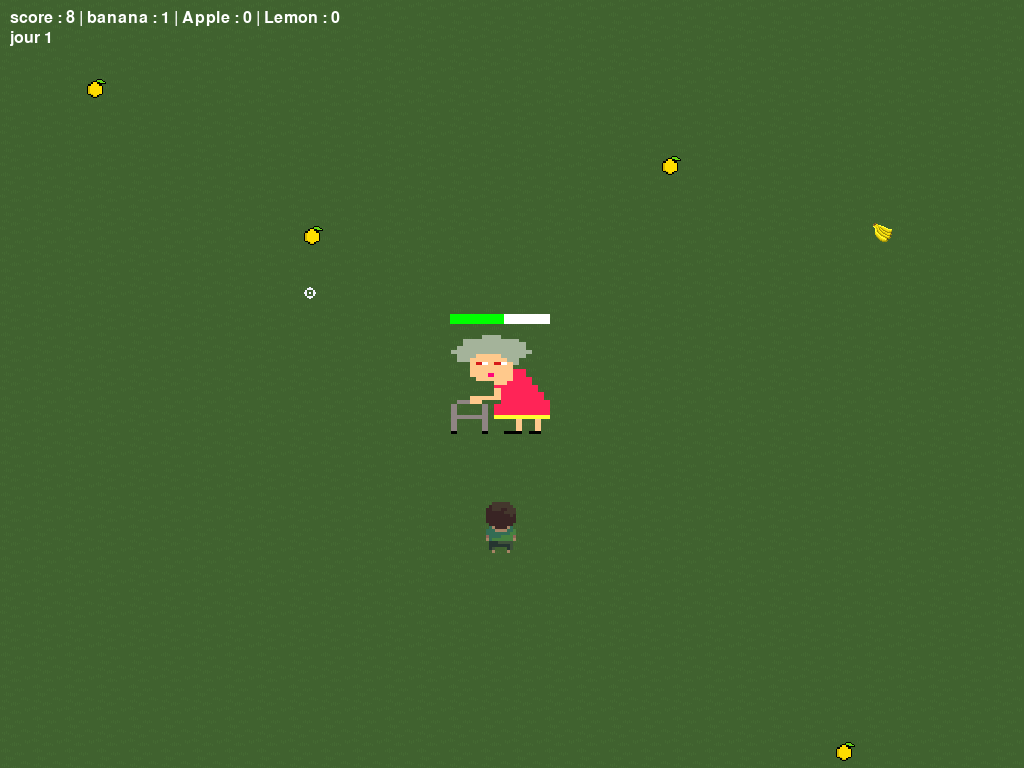
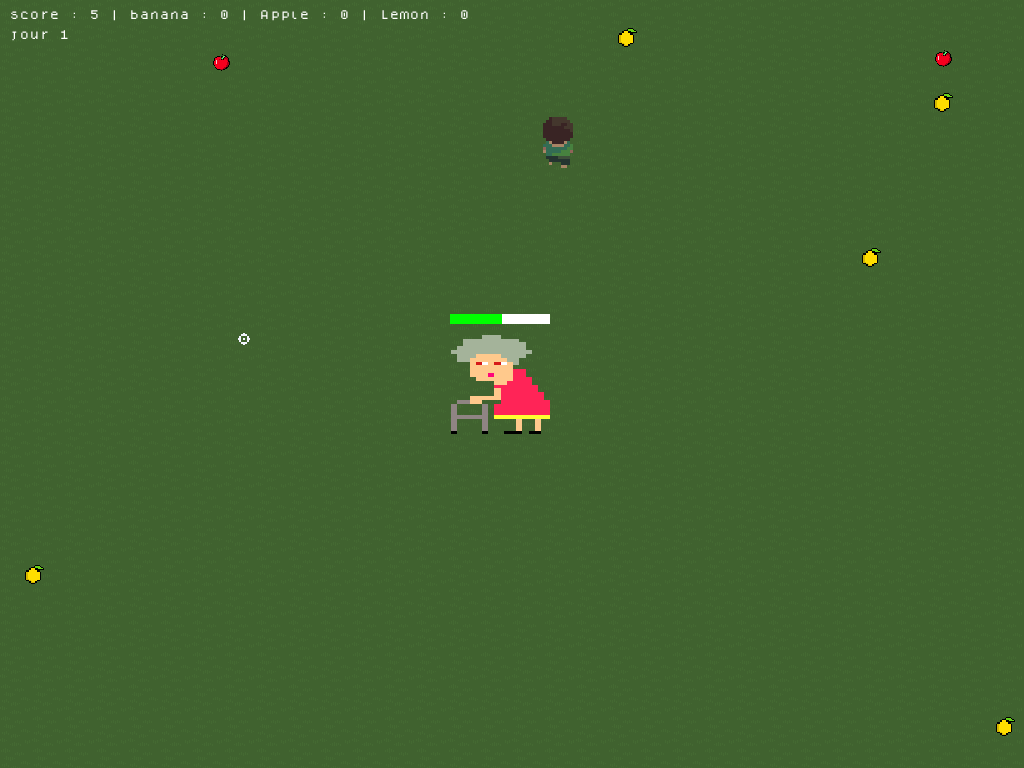
Ajout de polices de caractères

diff --git a/gamejam_project/gamejam_project/main.py b/gamejam_project/gamejam_project/main.py
@@ -79,11 +79,11 @@ if __name__ == '__main__':
         while waitUserResponse:
             WIN.fill((0, 0, 0))
             if int(timer) % 2 == 1:
-                font = pygame.font.Font(None, 25)
+                font = pygame.font.Font('fonts/dogica.ttf', 10)
                 text_play_again = font.render("Press ENTER to play", 1, (255, 255, 255))
                 text_quit = font.render("Press DEL to exit", 1, (255, 255, 255))
-                WIN.blit(text_play_again, (450, 350))
-                WIN.blit(text_quit, (465, 380))
+                WIN.blit(text_play_again, (420, 350))
+                WIN.blit(text_quit, (430, 380))
             timer += 0.005
             pygame.display.update()
             keys = pygame.key.get_pressed()
@@ -115,7 +115,7 @@ if __name__ == '__main__':
                         compteur_cycle = compteur_cycle + 1
                         animCycleAnouncement('img/day.png')
 
-                    font = pygame.font.Font(None, 24)
+                    font = pygame.font.Font('fonts/dogica.ttf', 10)
                     text = font.render("nuit " + str(compteur_cycle), 1, (255, 255, 255))
                     WIN.blit(text, (10, 30))
 
@@ -131,7 +131,7 @@ if __name__ == '__main__':
                         cycle.cycleChange()
                         animCycleAnouncement('img/night.png')
 
-                    font = pygame.font.Font(None, 24)
+                    font = pygame.font.Font('fonts/dogica.ttf', 10)
                     text = font.render("jour " + str(compteur_cycle), 1, (255, 255, 255))
                     WIN.blit(text, (10, 30))
 
@@ -217,7 +217,7 @@ if __name__ == '__main__':
                     nbLemon = 0
 
                 # Printing score and inventory
-                font = pygame.font.Font(None, 24)
+                font = pygame.font.Font('fonts/dogica.ttf', 10)
                 text = font.render(
                     "score : " + str(score) + " | banana : " + str(nbBanana) + " | Apple : " + str(nbApple) + " | Lemon : "
                     + str(nbLemon), 1, (255, 255, 255))
@@ -253,14 +253,14 @@ if __name__ == '__main__':
 
                 pygame.draw.rect(WIN, (255, 0, 0), pygame.Rect(450, 314, 100, 10))
 
-                font = pygame.font.Font(None, 200)
+                font = pygame.font.Font('fonts/dogica.ttf', 100)
                 text = font.render("GAME OVER", 1, (255, 255, 255))
-                font = pygame.font.Font(None, 20)
+                font = pygame.font.Font('fonts/dogica.ttf', 10)
                 text_play_again = font.render("Press r to play again", 1, (255, 255, 255))
                 text_quit = font.render("Press e to exit", 1, (255, 255, 255))
                 WIN.blit(text, (80, 150))
-                WIN.blit(text_play_again, (450, 500))
-                WIN.blit(text_quit, (465, 520))
+                WIN.blit(text_play_again, (400, 500))
+                WIN.blit(text_quit, (430, 520))
 
                 grandma.setLife(100)
                 score = 0
